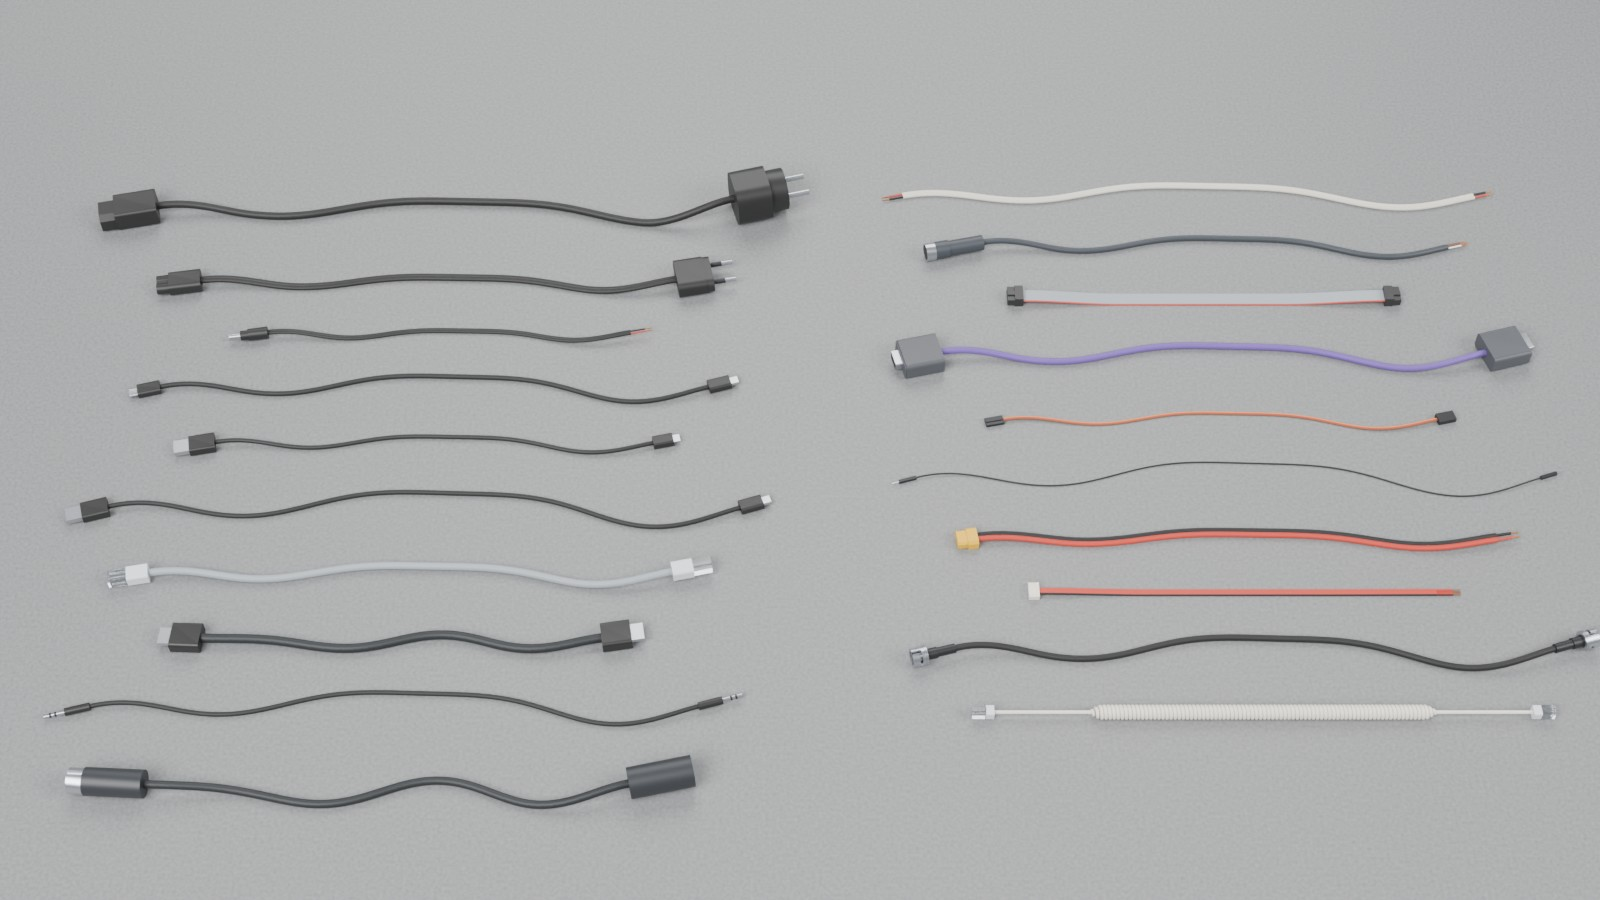
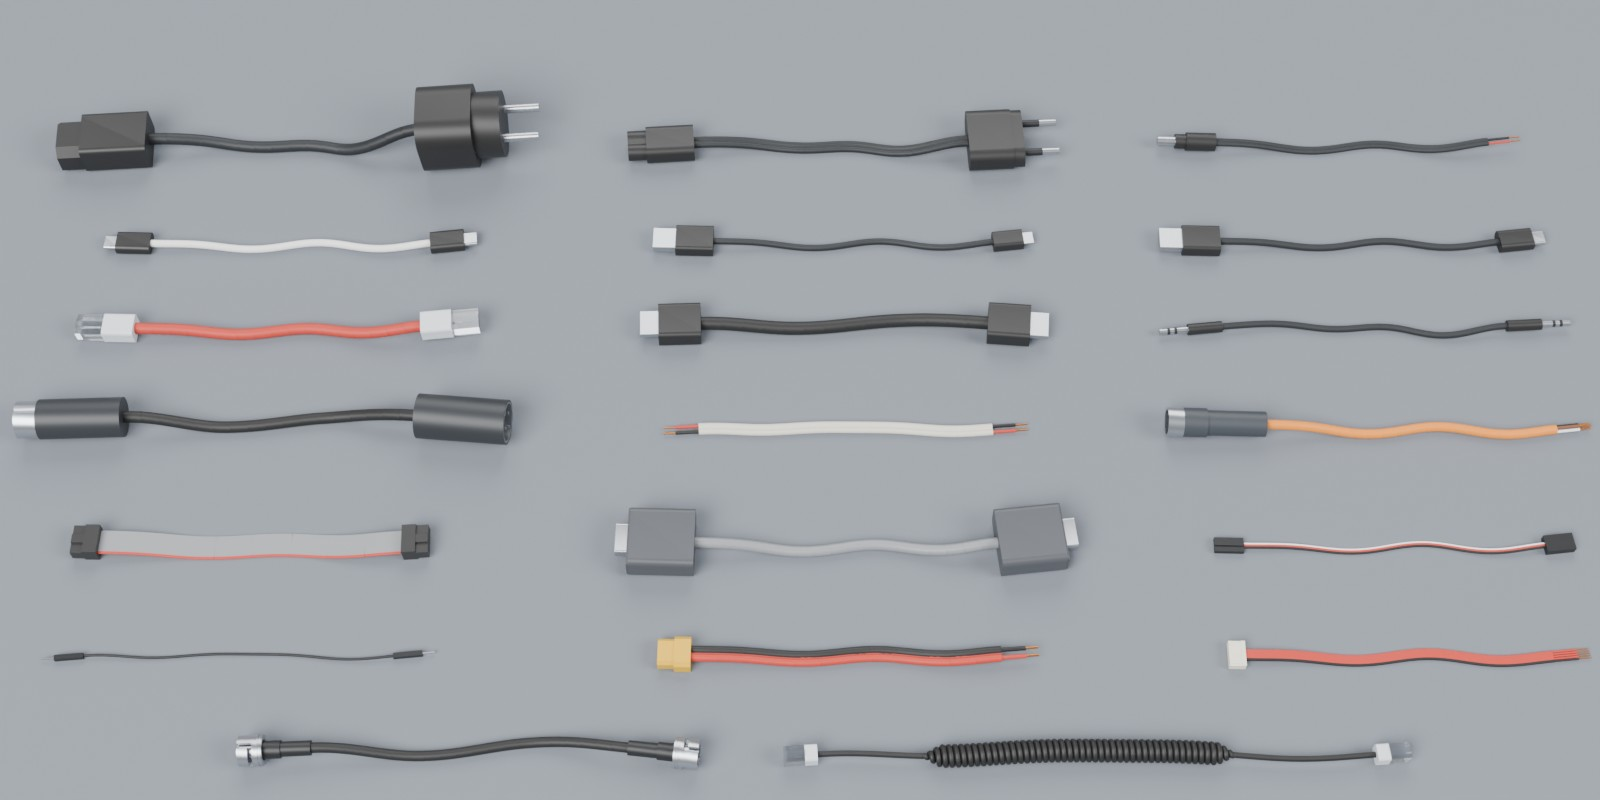
docs: a closer hero image, 15 cm cables on a blue-grey floor
Every preset in rows of three, framed edge to edge at 2:1, so that the
connectors' details show.

Claude-Session: https://claude.ai/code/session_01UFTdhx1MUVEJrqveU42xWj

Changed region(s): [[0.0, 0.0938, 1.0, 0.9688], [0.6562, 0.4688, 0.6875, 0.5], [0.0625, 0.625, 0.0938, 0.6562]]

diff --git a/scripts/readme_images.py b/scripts/readme_images.py
@@ -105,57 +105,68 @@ def _camera_for(lo, hi, direction=(0.25, -0.8, 0.75), lens=50.0, aspect=4 / 3, f
     return (*(c + d * v), *c)
 
 
-def blender(*args, samples: int = 96):
+def blender(*args, samples: int = 96, floor: tuple | None = None):
+    """Render with scripts/render_blender.py; floor: a plain floor colour (linear RGB) instead of
+    the concrete."""
     env = {**os.environ, "SAMPLES": str(samples)}
+    if floor:
+        env["FLOOR"] = ",".join(map(str, floor))
     subprocess.run([*BLENDER, *map(str, args)], check=True, stdout=subprocess.DEVNULL, env=env)
 
 
-HERO_LENGTHS = (0.50, 0.40, 0.30, 0.45, 0.35)  # 30 to 50 cm, in turn
-HERO_GAP = 0.012  # least free space between neighbouring cables, metres
+HERO_LENGTH = 0.15  # every cable 15 cm long: short enough for the connectors to fill the frame
+HERO_COLUMNS = 3  # the presets in rows of three, in the catalogue's order (power, data, audio, ...)
+HERO_GAP = 0.015  # free space between neighbouring cables, metres
+HERO_FLOOR = (0.17, 0.19, 0.22)  # a plain blue grey, linear: dark jackets and white ones both stand out
 
 
-def hero(tmp: Path, out: Path, samples: int, size=(1600, 900)):
-    """Every preset: one cable each, 30 to 50 cm long, lying across in two columns of up to ten,
-    seen from the front and above, close enough to see the connectors. Each cable is stacked by
-    its own width, so that no two overlap; of a few draws of each, the narrowest is kept."""
+def hero(tmp: Path, out: Path, samples: int, size=(1600, 800)):
+    """Every preset: one cable each, 15 cm long, the coiled cord too, in a grid of rows of three,
+    tight, seen from the front and above, close enough to see the connectors' details. Of a few
+    draws of each, the one with the smallest footprint is kept."""
     keys = list(PRESETS)
-    per_col = (len(keys) + 1) // 2
     placed = []
-    for k, key in enumerate(keys):
+    for key in keys:
         best = None
         for seed in range(1, 7):
-            scene = _preset_scene(key, HERO_LENGTHS[k % len(HERO_LENGTHS)], seed=seed, same_length=True)
+            scene = generate_scene(
+                key, count=1, seed=seed, layout="slack", length=HERO_LENGTH, variations=Variations(ends=False)
+            )
             folder = write_outputs(scene, tmp / "hero" / f"{key}_{seed}", physics=False)
             usd = folder / f"filaire_{key}.usdc"
             lo, hi = _bbox(usd)
-            if best is None or hi[1] - lo[1] < best[2][1] - best[1][1]:
-                best = (usd, lo, hi)
-        placed.append(best)
-    cols = [placed[:per_col], placed[per_col:]]
-    col_w = [max(h[0] - lo[0] for _, lo, h in col) for col in cols]
-    v = np.array([0.0, -0.75, 1.0])
+            area = (hi[0] - lo[0]) * (hi[1] - lo[1])
+            if best is None or area < best[3]:
+                best = (usd, lo, hi, area)
+        placed.append(best[:3])
+    rows = [placed[r : r + HERO_COLUMNS] for r in range(0, len(placed), HERO_COLUMNS)]
+    col_w = [max(r[k][2][0] - r[k][1][0] for r in rows if k < len(r)) for k in range(HERO_COLUMNS)]
+    v = np.array([0.0, -0.55, 1.0])  # from the front and above, steeper: less depth lost
     v /= np.linalg.norm(v)
-    lens, aspect, fill = 50.0, size[0] / size[1], 1.04
-    # spread the rows to fill the frame's height: the width (two columns) sets the zoom
-    width = col_w[0] + col_w[1] + 0.06
-    tallest = max(sum(h[1] - lo[1] for _, lo, h in col) for col in cols)
-    gap = max(HERO_GAP, (width / aspect / v[2] * 0.72 - tallest) / (per_col - 1))
+    lens, aspect, fill = 50.0, size[0] / size[1], 1.0
+    # the rows spread to fill the frame's height: the width (three columns) sets the zoom
+    width = sum(col_w) + HERO_GAP * (len(col_w) - 1)
+    depths = [max(hi[1] - lo[1] for _, lo, hi in row) for row in rows]
+    gap_y = max(HERO_GAP, (width / aspect / v[2] * 0.83 - sum(depths)) / (len(rows) - 1))
     args, cells = [], []
-    for c, col in enumerate(cols):
-        x = -col_w[0] / 2 - 0.03 if c == 0 else col_w[1] / 2 + 0.03  # column centres, 6 cm apart
-        y = 0.0
-        for usd, lo, hi in col:
-            d = np.array([x - (lo[0] + hi[0]) / 2, y - hi[1], 0.0])
+    y = 0.0
+    for row in rows:
+        depth = max(hi[1] - lo[1] for _, lo, hi in row)
+        x = (width - sum(col_w[: len(row)]) - HERO_GAP * (len(row) - 1)) / 2  # a short last row, centred
+        for k, (usd, lo, hi) in enumerate(row):
+            centre = np.array([x + col_w[k] / 2, y - depth / 2])
+            d = np.array([centre[0] - (lo[0] + hi[0]) / 2, centre[1] - (lo[1] + hi[1]) / 2, 0.0])
             args += [usd, d[0], d[1], 0, 0]
             cells.append((lo + d, hi + d))
-            y -= hi[1] - lo[1] + gap
+            x += col_w[k] + HERO_GAP
+        y -= depth + gap_y
     lo = np.min([c[0] for c in cells], axis=0)
     hi = np.max([c[1] for c in cells], axis=0)
     # frame what the camera sees: the depth foreshortened by the view's tilt
     seen = max(hi[0] - lo[0], (hi[1] - lo[1]) * v[2] * aspect)
     dist = seen * fill / 2 / (18.0 / lens)
     c = (lo + hi) / 2
-    blender("hero", out, *size, *(c + dist * v), *c, lens, *args, samples=samples)
+    blender("hero", out, *size, *(c + dist * v), *c, lens, *args, samples=samples, floor=HERO_FLOOR)
 
 
 def _tile(tmp: Path, name: str, args: list, cam, samples: int, size=(640, 480)) -> Path:

diff --git a/CHANGELOG.md b/CHANGELOG.md
@@ -51,6 +51,10 @@ and the project uses [Semantic Versioning](https://semver.org/).
 
 ### Changed
 
+- The README's hero image shows every preset as a 15 cm cable, in rows of
+  three, framed close enough to see the connectors' details, on a plain
+  blue-grey floor that dark and white jackets both stand out from
+  (`scripts/readme_images.py`).
 - `sim-test` places plug and receptacle by their MateFrames for the insertion
   and locking checks, instead of by their bodies' origins, where the frames
   are today: a frame moved in a file is now what the check tests.
